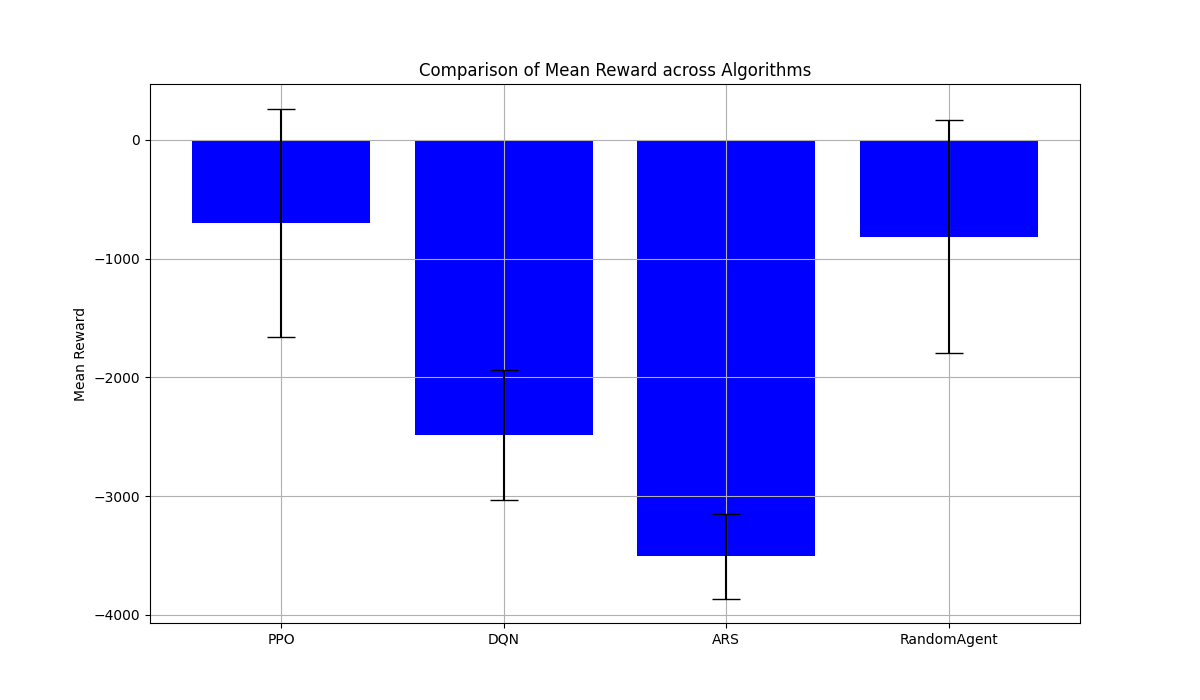
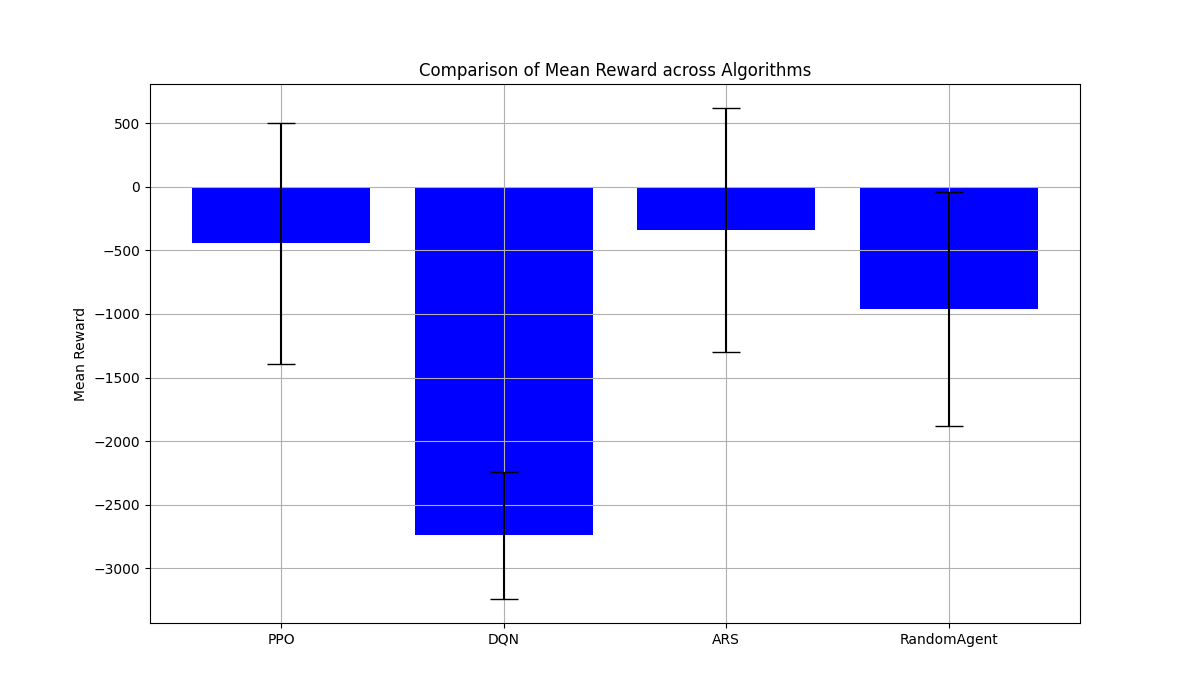
added fixed increasing reward for 0 total irrigation

diff --git a/aquacroprice/envs/rice.py b/aquacroprice/envs/rice.py
@@ -21,7 +21,6 @@ config = dict(
     days_to_irr=7,
 )
 
-# Define the Rice environment class
 class Rice(gym.Env):
     def __init__(self, render_mode=None, mode='train', year1=None, year2=None):
         super(Rice, self).__init__()
@@ -29,6 +28,7 @@ class Rice(gym.Env):
         self.render_mode = render_mode
         self.days_to_irr = config["days_to_irr"]
         self.day_counter = 0  # Counter to track days since the last action
+        self.consecutive_zero_irrigation_episodes = 0  # Counter for consecutive zero irrigation episodes
 
         # If year1 and year2 are provided, override the default config
         self.year1 = year1 if year1 is not None else config["year1"]
@@ -49,7 +49,7 @@ class Rice(gym.Env):
         # Define observation space: Includes weather-related observations
         self.observation_space = spaces.Box(low=-np.inf, high=np.inf, shape=(14,), dtype=np.float32)
         
-        self.action_depths = [0, 25]
+        self.action_depths = [0, 15, 30]
         self.action_space = spaces.Discrete(len(self.action_depths))  # Discrete action space with 6 actions
 
     def reset(self, seed=None, options=None):
@@ -185,9 +185,18 @@ class Rice(gym.Env):
             total_irrigation = self.model._outputs.final_stats['Seasonal irrigation (mm)'].mean()
             
             if total_irrigation == 0:
-                reward = -10  # Apply small negative fixed reward for 0 irrigation
+                # Increment the consecutive zero irrigation counter
+                self.consecutive_zero_irrigation_episodes += 1
+                # Apply a fixed penalty multiplied by the number of consecutive zero irrigation episodes
+                penalty = -1000 * self.consecutive_zero_irrigation_episodes
+                reward = penalty
+                print(f"Penalty Applied for Zero Irrigation: {penalty}")
             else:
+                # Reset the counter if irrigation is used
+                self.consecutive_zero_irrigation_episodes = 0
+                # Calculate the reward based on yield and irrigation
                 reward = ((dry_yield + 1) ** 3) - ((total_irrigation + 1) * 15)
+                print(f"Calculated Reward: {reward}")
 
             # Store the final values in the info dictionary
             info['dry_yield'] = dry_yield
@@ -198,6 +207,3 @@ class Rice(gym.Env):
             print(f"Final Reward: {reward}")
 
         return next_obs, reward, terminated, truncated, info
-
-
-

diff --git a/train.py b/train.py
@@ -115,7 +115,7 @@ train_env = DummyVecEnv([lambda: Monitor(Rice(mode='train', year1=1982, year2=20
 reward_logging_callback = RewardLoggingCallback(experiment)
 
 # Training parameters (shared among algorithms)
-train_timesteps = 1000
+train_timesteps = 20000
 
 # Define algorithms and hyperparameters with exploration encouragement
 algorithms = {
@@ -125,7 +125,7 @@ algorithms = {
         n_steps=4096,
         batch_size=64,
         n_epochs=10,
-        ent_coef=0.01
+        ent_coef=0.05
     ),
     "DQN": DQN(
         "MlpPolicy", train_env, verbose=1,
@@ -133,15 +133,15 @@ algorithms = {
         buffer_size=100000,
         batch_size=64,
         target_update_interval=1000,
-        exploration_initial_eps=1.0,
-        exploration_final_eps=0.1,
-        exploration_fraction=0.2
+        exploration_initial_eps=0.9,
+        exploration_final_eps=0.05,
+        exploration_fraction=0.15
     ),
     "ARS": ARS(
         "MlpPolicy", train_env, verbose=1,
-        n_delta=64,
+        n_delta=128,
         n_top=16,
-        delta_std=0.05
+        delta_std=0.1
     ),
 }
 
@@ -176,7 +176,7 @@ for name, model in algorithms.items():
     yields = []
     irrigations = []
     
-    for _ in range(10):  # Assuming you want to evaluate over 10 episodes
+    for _ in range(100):  # Assuming you want to evaluate over 10 episodes
         obs, done = eval_env.reset(), False
         while not done:
             action, _states = model.predict(obs, deterministic=True)
@@ -210,7 +210,7 @@ mean_reward, std_reward = evaluate_policy(random_agent, eval_env, n_eval_episode
 yields = []
 irrigations = []
 
-for _ in range(10):  # Assuming you want to evaluate over 10 episodes
+for _ in range(100):  # Assuming you want to evaluate over 10 episodes
     obs, done = eval_env.reset(), False
     while not done:
         action, _states = random_agent.predict(obs)
